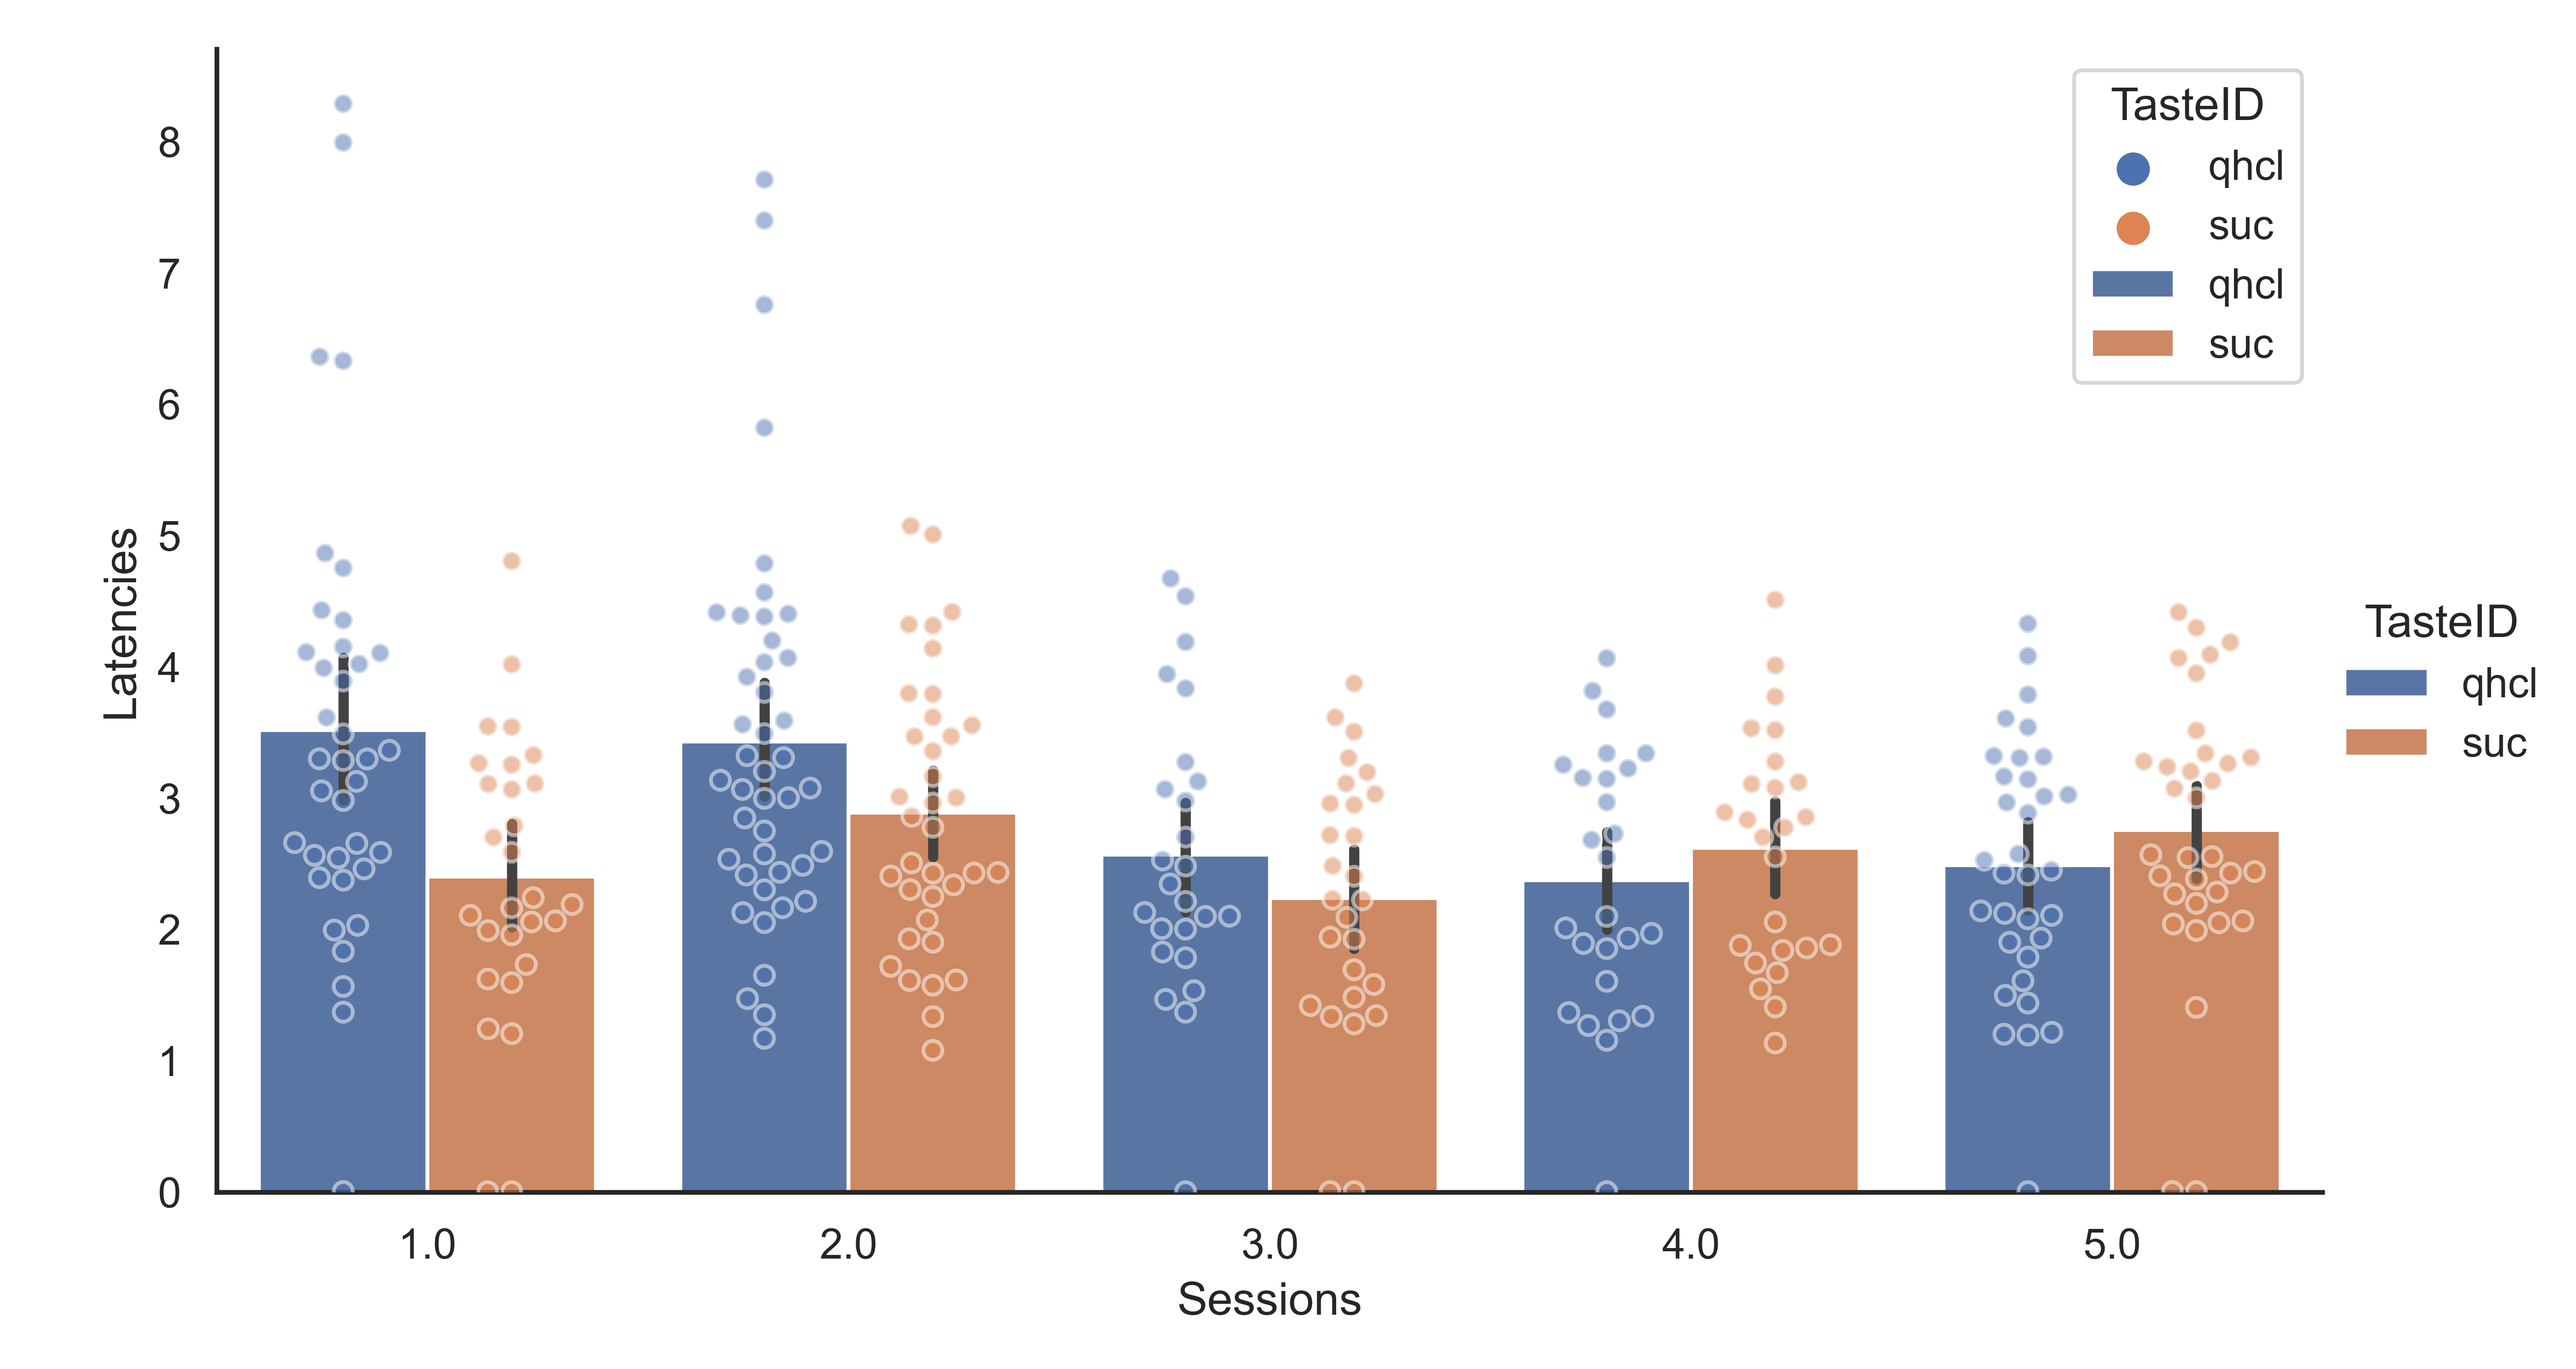
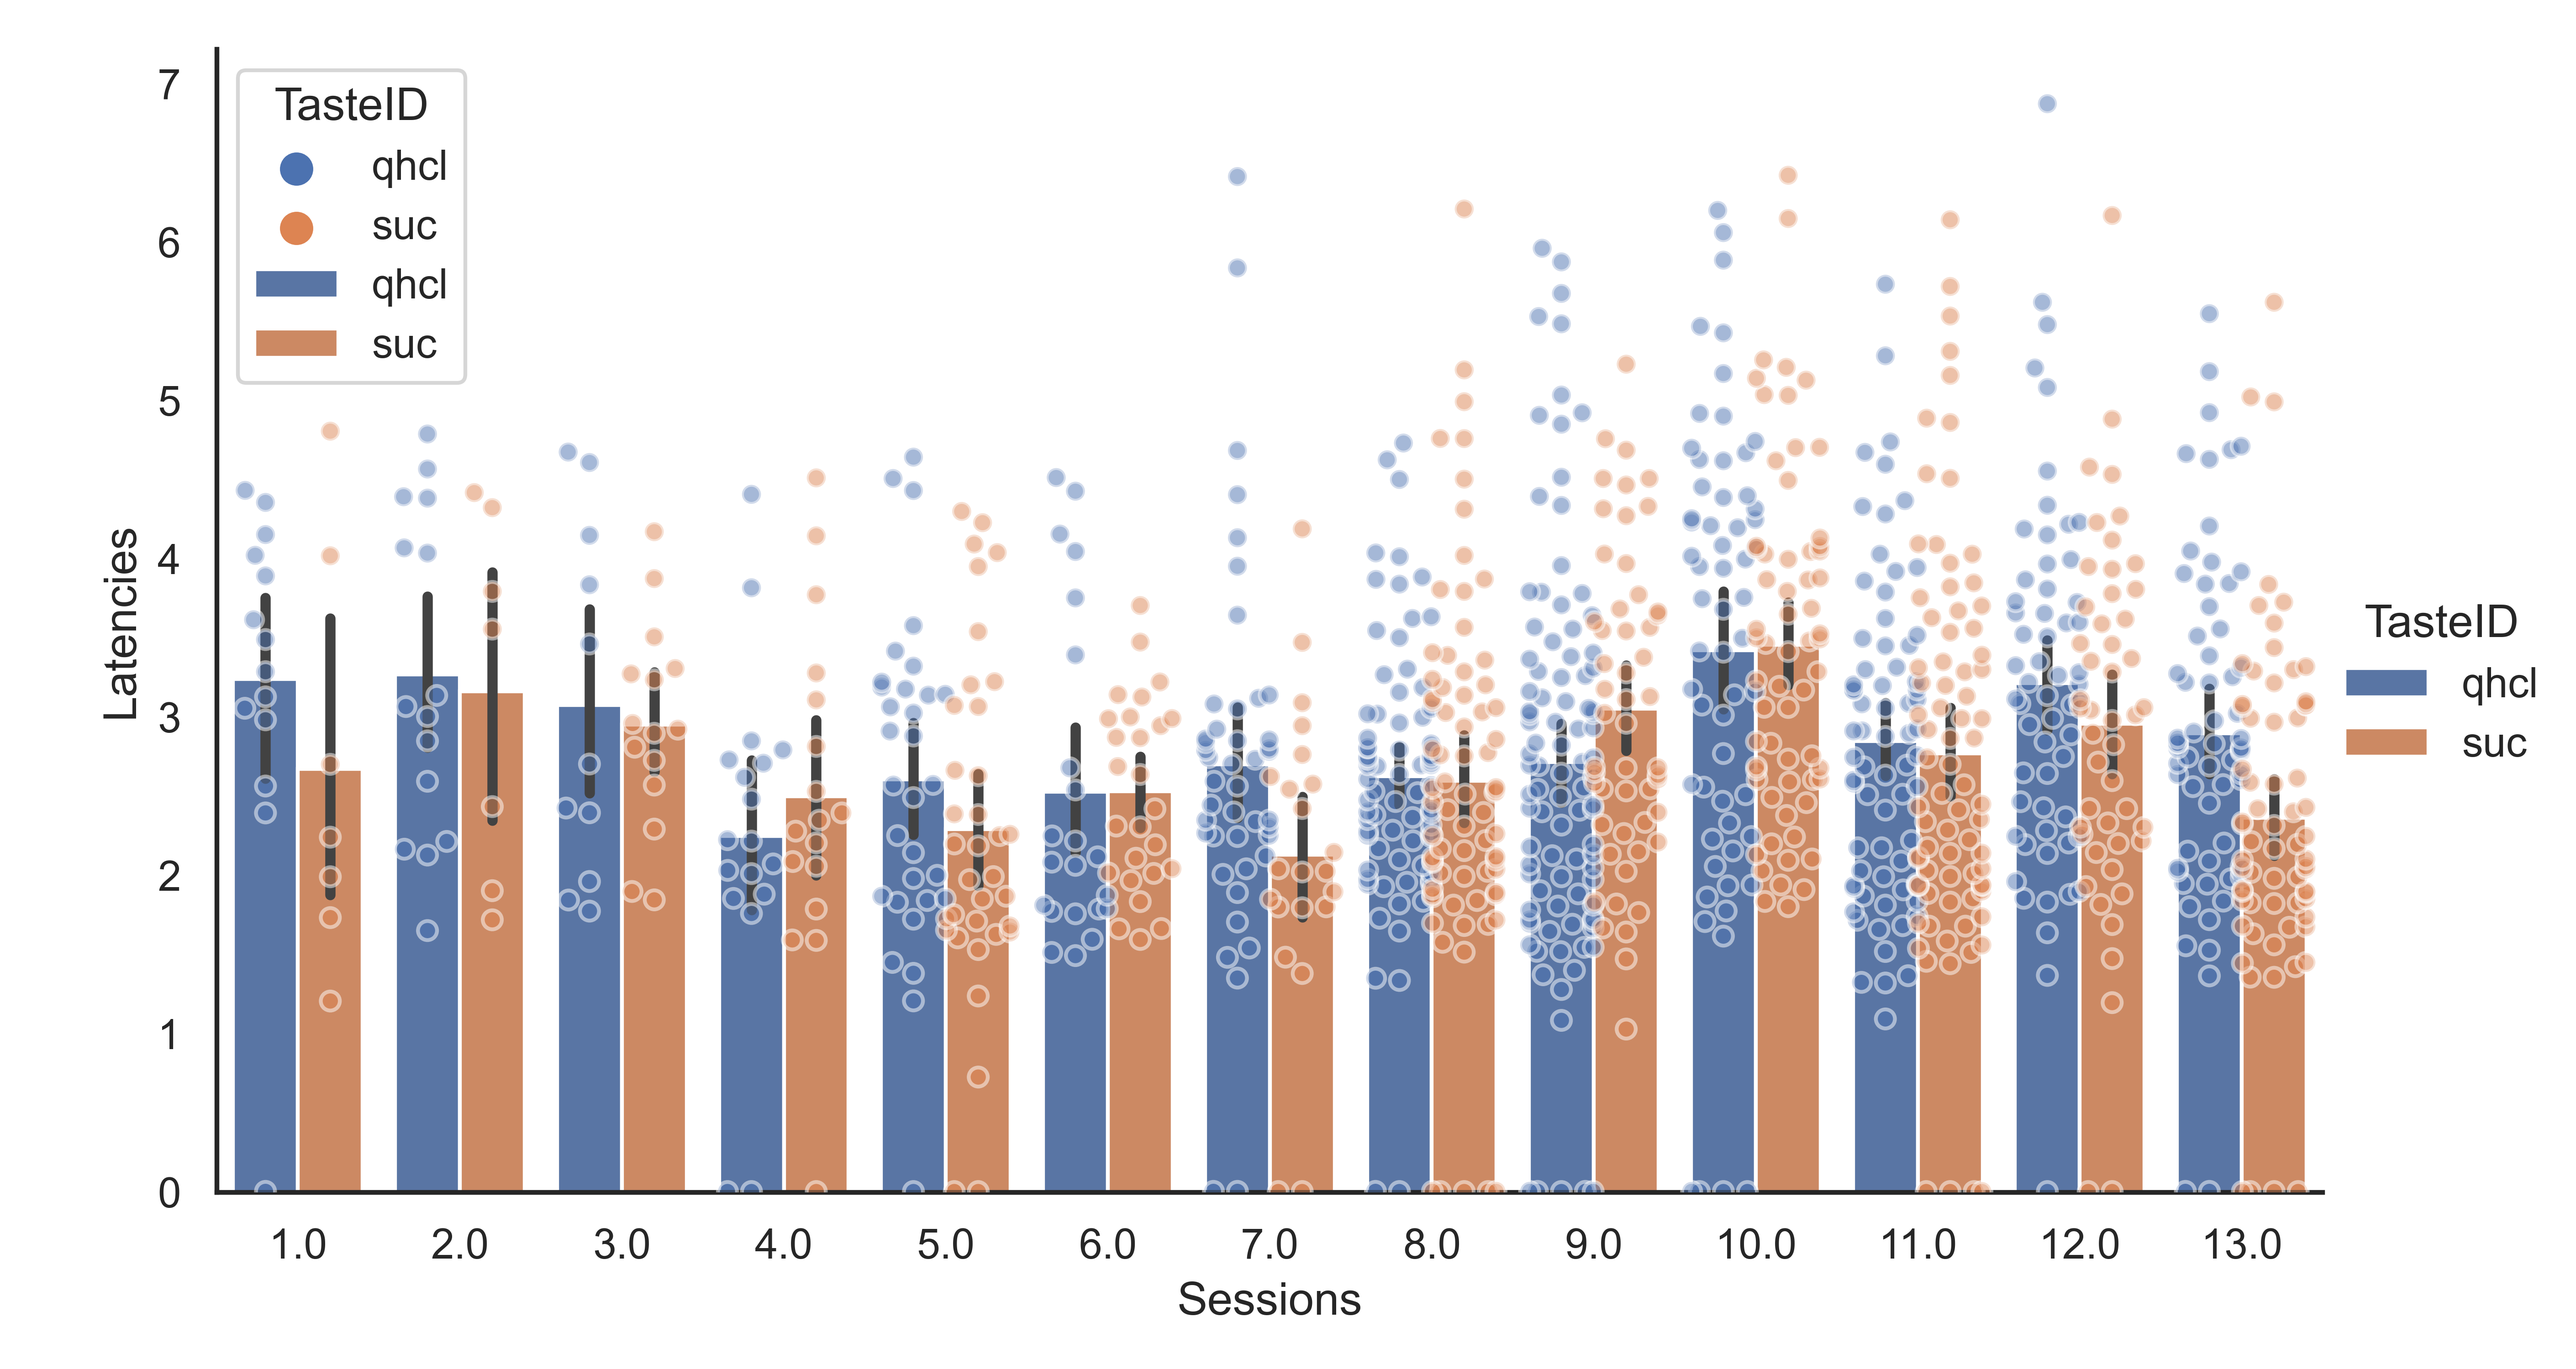
first and second halves found

diff --git a/visualization/sept_dat.py b/visualization/sept_dat.py
@@ -1,7 +1,7 @@
 #!/usr/bin/env python3
 # -*- coding: utf-8 -*-
 """
-Created on Wed Aug  3 08:27:55 2022
+Created on Sun Sep 18 12:05:56 2022
 
 @author: emmabarash
 """
@@ -28,16 +28,12 @@ finaldf = pd.DataFrame(columns = ['Time', 'Poke1', 'Poke2', 'Line1', 'Line2', 'L
        'Cue2', 'Cue3', 'Cue4', 'TasteID', 'AnID', 'Date', 'Taste_Delivery',
        'Delivery_Time', 'Latencies'])
 filelist.sort()
-# for f in filelist:
+
 for f in range(len(filelist)):
     df = pd.read_csv(filelist[f])
     group = df
     col = ['Line1', 'Line2']
     
-    # TODO: must figure out index start-1 for next taste in relation to current taste 
-    # to mark activity specific to the delivery even after the taste has been delivered
-    # so far this function marks the delivery identity in relation to when the valve is open 
-    # during the session.
     def parse_edges(group,col):
         delivery_idx = []
         group['TasteID'] = None
@@ -66,7 +62,6 @@ for f in range(len(filelist)):
             test = pd.merge(edgeON,edgeOFF,left_index=True,right_index=True)
             test['dt'] = test.TimeOff-test.TimeOn
     
-            # delivery_idx = []
             for i, row in test.iterrows():
                 start = int(np.where(df['Time'] == test['TimeOn'][i])[0])
                 stop = int(np.where(df['Time'] == test['TimeOff'][i])[0])
@@ -138,12 +133,6 @@ def add_days_elapsed(finaldf):
     res = []
     for name, group in new_df.groupby('AnID'):
         i=1
-        # if name == 'eb10':
-        #     i = 1
-        # if name == 'eb11':
-        #     i = 14
-        # if name == 'eb12':
-        #     i = 9
         for n, g in group.groupby('Date'):
             print(g)
             bit = np.zeros(len(g))
@@ -151,21 +140,10 @@ def add_days_elapsed(finaldf):
             res.extend(bit)
             i += 1
     new_df['Sessions'] = res
-    # def getElapsed(grp):
-    #     startDate = grp.iloc[0]
-    #     return ((grp - startDate) / np.timedelta64(1, 'D')).astype(int)
-    
-    # new_df['dcol'] = pd.to_datetime(new_df['Date'], format = '%m%d%y')
-    # new_df['elapsed'] = finaldf.groupby('AnID').dcol.transform(getElapsed)
 
     return new_df
 
 new_df = add_days_elapsed(finaldf)
-
-# def offset_sessions(new_df):
-#     df = new_df
-    
-#     for 
 
 def cumulativedels(new_df):
     csum = new_df.groupby(['AnID','Sessions','TasteID', 'Latencies']).Taste_Delivery.sum()
@@ -248,5 +226,84 @@ t = sns.catplot(
     color=cmap(0)
     )
 
+copy = new_df
 
-# stats.ttest_ind(finaldf['TasteID'],finaldf['Latencies'])
+# hard-code the time 35min 2100, 60min 3600
+#def find_half_time(copy):
+    
+   # copy['Section'] = None
+   
+first_half = copy.loc[(copy['Time'] <= 1800) & (copy['AnID'] == 'eb12')]
+second_half = copy.loc[(copy['Time'] > 1800) & (copy['Time'] <= 3600) & (copy['AnID'] == 'eb12')]
+
+def makefig(dat, name):
+    sns.set_theme(style='white')
+    t = sns.catplot(
+        data=dat,
+        kind='bar',
+        x = 'Sessions',
+        y='Latencies',
+        #col='Sessions',
+        hue = 'TasteID',
+        # color=cmap(0)
+        # height = 8,
+        aspect = 12/7,
+        hue_order = ['suc', 'qhcl']
+        )
+    t = sns.swarmplot(
+        data=dat,
+        x = 'Sessions',
+        y='Latencies',
+        #col = 'Sessions',
+        hue_order = ['suc', 'qhcl'],
+        hue = "TasteID",
+        #color = "TasteID",
+        dodge= True,
+        edgecolor = "white",
+        linewidth = 1,
+        alpha = 0.5,
+        ).set_title(name)
+
+makefig(first_half, 'First Half')
+makefig(second_half, 'Second Half')
+
+
+
+   # copy['Section'] = 'first_half'
+       
+   # else:
+       # copy['Section'] = 'second_half'
+       
+       
+# test = find_half_time(copy)
+       
+
+
+
+
+
+
+
+
+
+
+
+
+
+
+
+
+
+
+
+
+
+
+
+
+
+
+
+
+
+

diff --git a/visualization/two_tastes_eb10.py b/visualization/two_tastes_eb10.py
@@ -19,12 +19,12 @@ import inflect
 animal1 = []
 names = []
 counter = 0
-directory = ['/Users/emmabarash/Lab/data/eb10_data']
+directory = ['/Users/emmabarash/Lab/data/eb11_data']
 
 for i in directory:
     print(i[-9:-5])
     for filename in os.listdir(i):
-        if i[-9:-5] == "eb10":
+        if i[-9:-5] == "eb11":
             animal1.append(filename)
         animal1.sort()
     
@@ -87,8 +87,8 @@ setup_for_trial_counts(animal1_files, animal1_line1_counts,
 p = inflect.engine()
 
 x = range(1,len(animal1_files)+1)
-plt.ylim(0,50)
-plt.title("EB10: deliveries across " + p.number_to_words(len(animal1_files)) + " taste session")
+plt.ylim(0,80)
+plt.title(filename[0:4] + ": deliveries across " + p.number_to_words(len(animal1_files)) + " taste session")
 plt.xlabel("sessions")
 plt.ylabel("deliveries")
 plt.scatter(x, animal1_line1_counts, c='blue')
